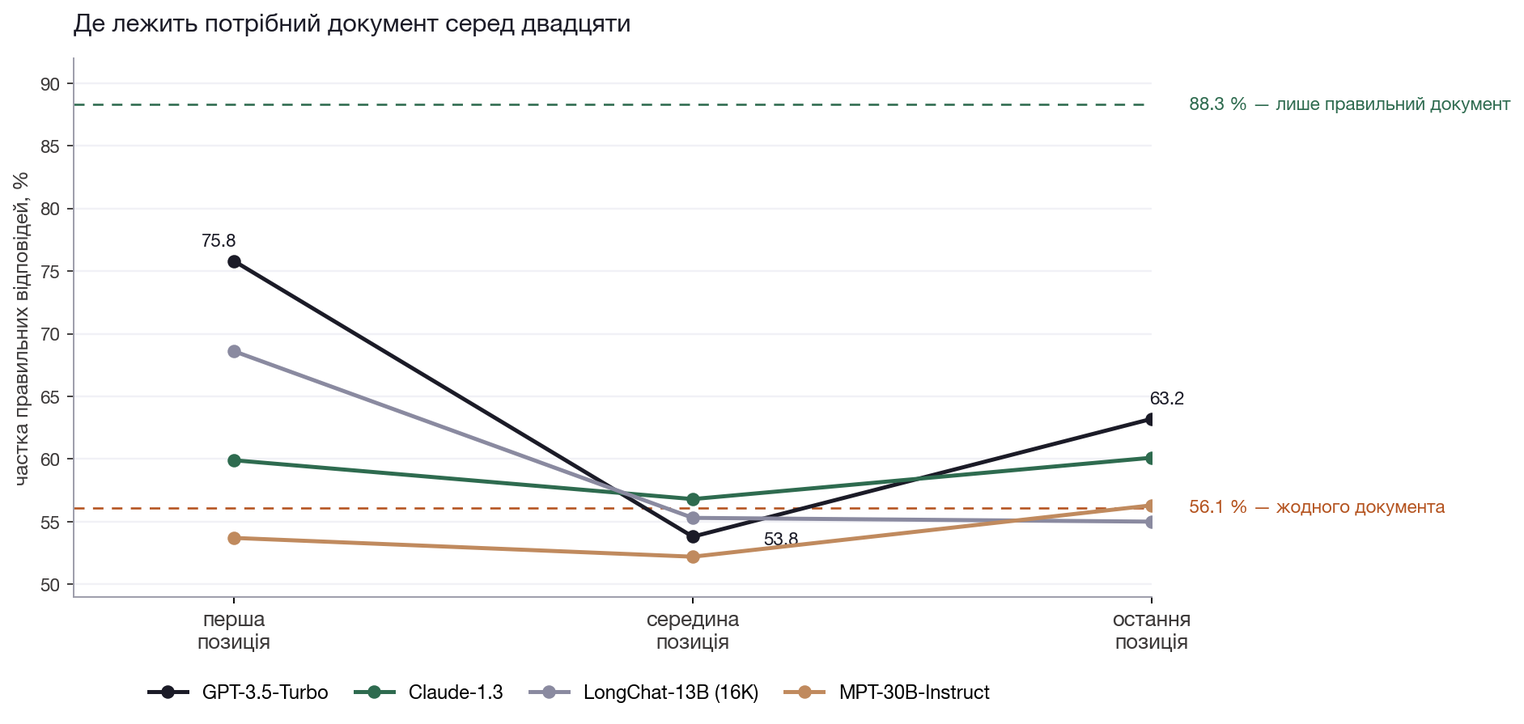
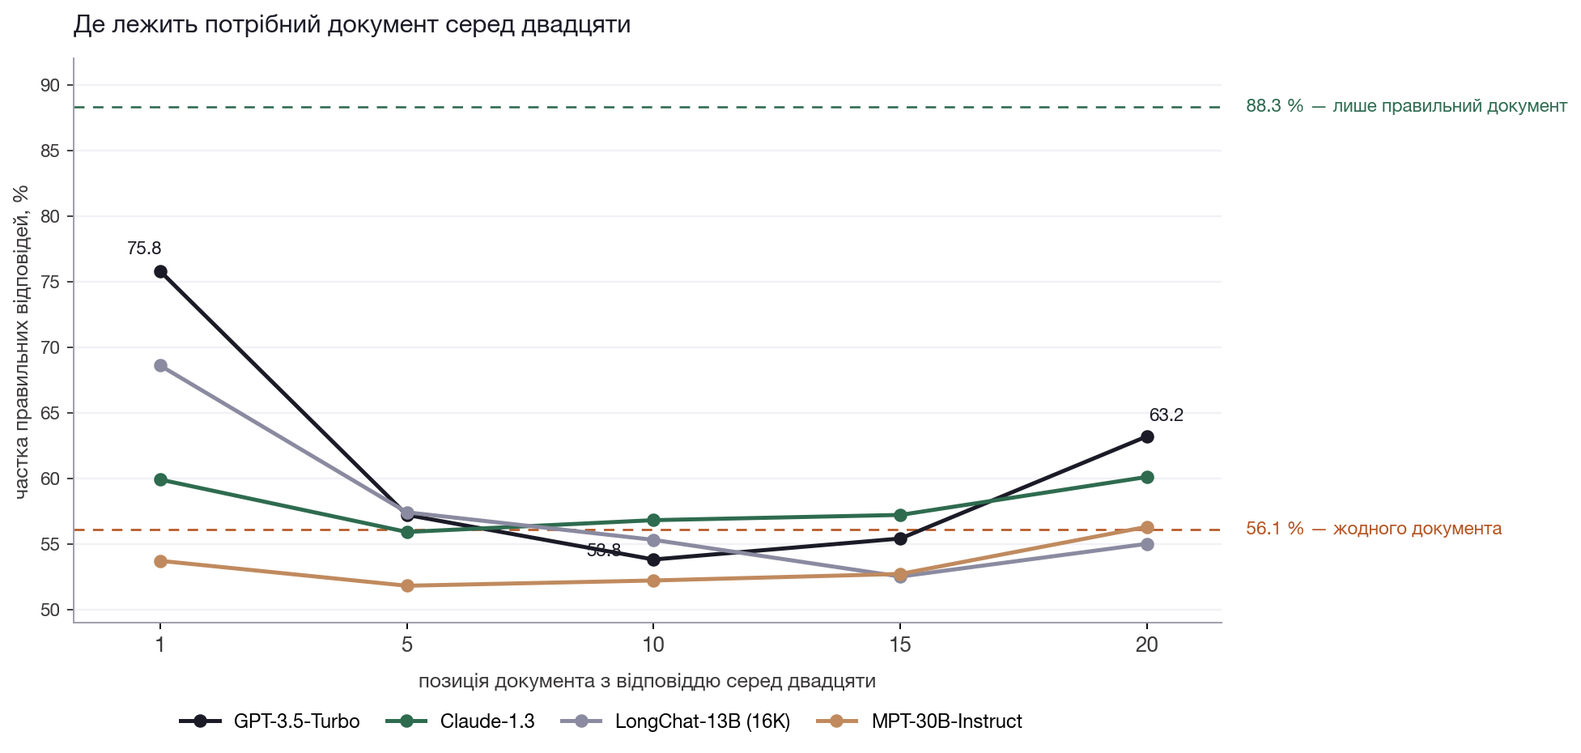
Третій прохід Л03 і Л04: візуал замість таблиць чисел
Крива позиції — усі пʼять виміряних позицій (1, 5, 10, 15, 20) на кожну з
чотирьох моделей за таблицею додатка «20 Total Retrieved Documents».
Тепер U-подібність видно не лише в GPT-3.5: у LongChat провал триває до
пʼятнадцятої позиції, а Claude майже рівний — і це різні інженерні висновки.

Дві нові власні схеми: приріст технік у відсоткових пунктах разом з умовами
(найдовша смуга — розкид від форматування, а не техніка) і ланцюг EchoLeak
від листа до виходу на «довірений» домен.

SamplingLab стоїть на двох сторінках, і підзаголовок «розподіл той самий,
що в таблиці вище» на лекції 01 вказував на чужу таблицю, а примітка про
округлення .39/.36/.25 не мала до чого відсилати. Додано пропс context:
на лекції 01 текст свій, примітки немає.

Таблиця «Що змінювали» розведена по джерелах (RULER проти Context Rot) —
раніше три роботи стояли під однією шапкою. Бенчмарки GSM8K, MAWPS,
StrategyQA, CSQA, SVAMP, AQuA і NaturalQuestions-Open отримали по рядку
пояснення, ASR — формулу, картки механізмів більше не переказують розділи.

Підпис титульної схеми Л04 звірено з самим рисунком: «Possible context to
give model», стрілка «Curation», цикл Tool call → Tool result → Message
history і ножиці як межа вікна.

Claude-Session: https://claude.ai/code/session_01BB2vWPDECbuHqp6thRky4G

diff --git a/.vitepress/theme/components/SamplingLab.vue b/.vitepress/theme/components/SamplingLab.vue
@@ -5,6 +5,15 @@
  */
 import { ref, computed } from 'vue'
 
+/**
+ * Віджет стоїть на двох сторінках. У лекції 03 таблиця з цим самим розподілом
+ * надрукована прямо над ним, у лекції 01 — ні, тому підзаголовок «той самий,
+ * що в таблиці вище» там указував на чужу таблицю, а примітка про округлення
+ * .39/.36/.25 не мала до чого відсилати.
+ */
+const props = withDefaults(defineProps<{ context?: 'table' | 'standalone' }>(),
+  { context: 'table' })
+
 const BASE = [
   { tok: 'cute', p: 0.34 },
   { tok: 'on', p: 0.32 },
@@ -104,7 +113,13 @@ function preset(t: number, k: number, p: number) {
       <div>
         <div class="sl__title">Один крок генерації, чотири рішення</div>
         <div class="sl__sub">
-          Розподіл — той самий, що в таблиці вище. Крутіть ручки й дивіться, хто лишається в пулі.
+          <template v-if="props.context === 'table'">
+            Розподіл — той самий, що в таблиці вище. Крутіть ручки й дивіться, хто лишається в пулі.
+          </template>
+          <template v-else>
+            Розподіл із п'яти токенів, який докладно розбирається в лекції про навчання моделі.
+            Крутіть ручки й дивіться, хто лишається в пулі.
+          </template>
         </div>
       </div>
       <button class="sl__reset" @click="reset">Скинути</button>
@@ -169,7 +184,7 @@ function preset(t: number, k: number, p: number) {
       </p>
     </div>
 
-    <p class="sl__fine">
+    <p v-if="props.context === 'table'" class="sl__fine">
       Ймовірності в таблиці лекції вже округлені, тому перерахунок від них дає, наприклад,
       <code>.39 / .37 / .24</code>, а в підручнику надруковано <code>.39 / .36 / .25</code> —
       там нормували неокруглені значення. Розбіжність у сотих є наслідком округлення, а не помилкою.

diff --git a/lectures/04.md b/lectures/04.md
@@ -10,7 +10,7 @@ outline: [2, 2]
 
 <Figure src="/figs/ext/sanity-0e84ae-faa261102e46c7f090a2402a49000ffae18c5dd6.png" alt="Промпт-інженерія проти context engineering: що потрапляє у вікно моделі">
 
-Схема з [Effective context engineering for AI agents](https://www.anthropic.com/engineering/effective-context-engineering-for-ai-agents), Anthropic, 2025. Ліва панель — **prompt engineering**: те, що ви пишете самі. Права — **context engineering**: усе, що опиняється у вікні на цьому кроці, разом із описами інструментів, історією діалогу, підвантаженими документами й результатами викликів. Перше є підмножиною другого.
+Схема з [Effective context engineering for AI agents](https://www.anthropic.com/engineering/effective-context-engineering-for-ai-agents), Anthropic, 2025. Ліва панель — «prompt engineering for single turn queries»: у вікні лише системний промпт і повідомлення користувача. Права — «context engineering for agents»: ліворуч у ній складено **Possible context to give model** (документи, інструменти, файли пам'яті, інструкції, доменні знання), і стрілка **Curation** веде звідти у **Context window** лише частину — дібране. Далі видно цикл: модель видає «Tool call», результат «Tool result» повертається в «Message history» і знову претендує на місце у вікні. Ножиці внизу обох рамок позначають межу вікна: усе, що не вмістилося, доводиться відрізати.
 
 </Figure>
 
@@ -191,6 +191,8 @@ print("теги-межі в запиті:", [t for t in ("<examples>", "<documen
 
 Ланцюг міркувань (*chain-of-thought*, CoT) просить модель виписати проміжні кроки перед відповіддю. Умови виміру: few-shot промпт із восьми екземплярів із розписаними міркуваннями, без донавчання, greedy-декодування.
 
+У колонці «задача» — назви наборів: **GSM8K** і **MAWPS** — шкільні текстові задачі з арифметикою, **StrategyQA** — питання, що вимагають кількох кроків міркування про світ, **CSQA** — здоровий глузд із вибором відповіді.
+
 | Задача, модель | Звичайний промпт | CoT |
 |---|---|---|
 | GSM8K, PaLM 540B | 17.9 % | 56.9 % |
@@ -213,7 +215,7 @@ $$\hat{a} \;=\; \arg\max_{a} \sum_{i=1}^{m} \mathbb{1}\!\left[a_i = a\right], \q
 | $(r_i, a_i)$ | ланцюжок і його відповідь | $T = 0.7$, top-k 40, PaLM 540B |
 | $\mathbb{1}[\cdot]$ | збіг фінальних відповідей | голосування більшістю |
 
-На GSM8K це дає 56.5 % проти 74.4 %, тобто плюс 17.9 пункту до CoT. На тій самій PaLM 540B приріст на SVAMP становить 7.6 пункту, на AQuA — 12.5 ([Wang та ін.](https://arxiv.org/abs/2203.11171), таблиця 2; числа 11.0 і 12.2, які часто цитують, належать іншій моделі — code-davinci-002). Крива виходить на плато на 20–40 шляхах, а платить за це система сорокакратним обсягом згенерованих токенів.
+На GSM8K це дає 56.5 % проти 74.4 %, тобто плюс 17.9 пункту до CoT. На тій самій PaLM 540B приріст на **SVAMP** (прості задачі з навмисно переставленими числами) становить 7.6 пункту, на **AQuA** (задачі зі вступних тестів, з варіантами відповіді) — 12.5 ([Wang та ін.](https://arxiv.org/abs/2203.11171), таблиця 2; числа 11.0 і 12.2, які часто цитують, належать іншій моделі — code-davinci-002). Крива виходить на плато на 20–40 шляхах, а платить за це система сорокакратним обсягом згенерованих токенів.
 
 ## Self-consistency у двадцяти рядках
 
@@ -308,7 +310,7 @@ print("перемогла:", votes.most_common(1)[0][0])
 | Reasoning | o3-mini, o4-mini | +2.9…+3.1 |
 | Reasoning | Gemini Flash 2.5 | −3.3 |
 
-Висновок авторів: для reasoning-моделей [CoT](https://arxiv.org/abs/2506.07142) «often results in only marginal, if any, gains in answer accuracy». Час відповіді зростає на 35–600 % для звичайних моделей. У non-reasoning моделей картина не однакова: у Claude Sonnet 3.5 росте і середнє, і частка питань, розв'язаних усі 25 разів поспіль; у Gemini Flash 2.0 середнє росте на 13.5 пункту, а та сама «усі 25 із 25» падає на 13.1. Тобто на одній моделі CoT піднімає середнє й водночас робить відповідь менш передбачуваною — і саме цей розмін варто перевіряти на своїй моделі, а не припускати. Явний CoT у промпті 2026 року лишається корисним передусім для моделей без вбудованого міркування.
+Висновок авторів [звіту 2025 року](https://arxiv.org/abs/2506.07142): для reasoning-моделей CoT «often results in only marginal, if any, gains in answer accuracy». Час відповіді зростає на 35–600 % для звичайних моделей. У non-reasoning моделей картина не однакова: у Claude Sonnet 3.5 росте і середнє, і частка питань, розв'язаних усі 25 разів поспіль; у Gemini Flash 2.0 середнє росте на 13.5 пункту, а та сама «усі 25 із 25» падає на 13.1. Тобто на одній моделі CoT піднімає середнє й водночас робить відповідь менш передбачуваною — і саме цей розмін варто перевіряти на своїй моделі, а не припускати. Явний CoT у промпті 2026 року лишається корисним передусім для моделей без вбудованого міркування.
 
 ## Саме форматування рухає точність
 
@@ -328,6 +330,16 @@ print("перемогла:", votes.most_common(1)[0][0])
 Одна таблиця тримає весь блок: техніка, задача, приріст і умови, за яких його отримано. Без четвертої колонки перші три не переносяться на вашу систему.
 
 Приріст подано у **відсоткових пунктах** (в.п.): різниця двох часток, а не відносна зміна. Зростання точності з 17.9 % до 56.9 % — це +39.0 в.п., хоча у відносному вимірі це більш ніж утричі.
+
+
+<Figure src="/figs/own/l04-gains.png" alt="Приріст кожної техніки у відсоткових пунктах разом з умовами виміру">
+
+Приріст кожної техніки у відсоткових пунктах разом з умовами виміру
+
+</Figure>
+
+
+Стовпчик без четвертої колонки нічого не означає: найдовша смуга тут — не техніка, а **розкид** від форматування, тобто різниця між найкращим і найгіршим способом записати той самий промпт.
 
 | Техніка | Задача | Приріст | Умови |
 |---|---|---|---|
@@ -359,7 +371,7 @@ $$C_{\text{attn}} \;\propto\; n^2, \qquad n = n_{\text{sys}} + n_{\text{tools}} 
 
 ## Крива позиції має форму літери U
 
-Умови експерименту: 2 655 запитів із NaturalQuestions-Open, 20 документів по 100 токенів. Рівно один документ містить відповідь, решта — **дистрактори** (правдоподібні, але непотрібні тексти), і змінюється лише позиція потрібного. Таку перевірку називають **пошуком голки в копиці сіна** (*needle in a haystack*).
+Умови експерименту: 2 655 запитів із **NaturalQuestions-Open** — це реальні пошукові запити до Google з відповідями у вікіпедійних статтях; 20 документів по 100 токенів. Рівно один документ містить відповідь, решта — **дистрактори** (правдоподібні, але непотрібні тексти), і змінюється лише позиція потрібного. Таку перевірку називають **пошуком голки в копиці сіна** (*needle in a haystack*).
 
 | Модель | Перша | Середина | Остання |
 |---|---|---|---|
@@ -371,30 +383,29 @@ $$C_{\text{attn}} \;\propto\; n^2, \qquad n = n_{\text{sys}} + n_{\text{tools}} 
 
 <Figure src="/figs/own/l04-position.png" alt="Точність залежно від позиції потрібного документа серед двадцяти">
 
-Побудовано за даними [Lost in the Middle](https://arxiv.org/abs/2307.03172) (Liu та ін., TACL 2024), додаток «20 Total Retrieved Documents». Автори міряли п'ять позицій (1, 5, 10, 15, 20); тут показано три крайні — першу, середню й останню. Вісь X — позиція потрібного документа серед двадцяти, вісь Y — частка правильних відповідей. Пунктири — дві межі для GPT-3.5-Turbo з таблиці 1: скільки вона дає без жодного документа і скільки з одним лише правильним.
+Побудовано за таблицею додатка «20 Total Retrieved Documents» зі статті [Lost in the Middle](https://arxiv.org/abs/2307.03172) (Liu та ін., TACL 2024) — усі п'ять виміряних позицій. Вісь X — позиція потрібного документа серед двадцяти, вісь Y — частка правильних відповідей. Пунктири — дві межі для GPT-3.5-Turbo з таблиці 1: скільки вона дає без жодного документа і скільки з одним лише правильним.
 
 </Figure>
 
 
-Форма літери U читається прямо з лінії GPT-3.5-Turbo: 75.8 % на першій позиції, 53.8 % у середині, 63.2 % на останній. Розрив між найкращою і найгіршою позицією — 22 пункти. І головне: у середині модель дає **менше**, ніж узагалі без документів (56.1 %). Потрібний документ, покладений у середину вікна, гірший за його відсутність — він витрачає бюджет і не допомагає.
+Форма літери U читається прямо з лінії GPT-3.5-Turbo: 75.8 % на першій позиції, 57.2 % на п'ятій, 53.8 % на десятій, 55.4 % на п'ятнадцятій і 63.2 % на останній. Розрив між найкращою і найгіршою позицією — 22 пункти. І головне: у середині модель дає **менше**, ніж узагалі без документів (56.1 %). Потрібний документ, покладений у середину вікна, гірший за його відсутність — він витрачає бюджет і не допомагає.
 
 ## Заявлене вікно не дорівнює робочому
 
 Довжина вікна в специфікації є верхньою межею, а не робочим діапазоном. Звіт [Context Rot](https://www.trychroma.com/research/context-rot) (Hong, Troynikov, Huber, Chroma, липень 2025) на 18 моделях сімейств Claude, GPT, Gemini і Qwen формулює це так: моделі «do not use their context uniformly; instead, their performance grows increasingly unreliable as input length grows».
 
-| Що змінювали | Умови | Що сталося |
-|---|---|---|
-| Заявлені 32K і більше | 17 моделей | половина не тримає якість |
-| Кількість «голок» | GPT-4, від 1 до 10 | початок губиться вже від 25k |
-| Дистрактори | 0, 1 та 4 схожі хибні | навіть один знижує точність |
-| Структура тексту | зв'язний і перемішаний | перемішаний дає кращий результат |
-| Обсяг релевантного | 300 проти 113k токенів | коротший промпт кращий усюди |
+| Що змінювали | Умови | Що сталося | Звідки |
+|---|---|---|---|
+| Заявлене вікно | 17 моделей із 32K і більше | половина не тримає якість | [RULER](https://arxiv.org/abs/2404.06654) |
+| Дистрактори | 0, 1 та 4 схожі хибні | навіть один знижує точність | Context Rot |
+| Структура тексту | зв'язний і перемішаний | перемішаний дає кращий результат | Context Rot |
+| Обсяг релевантного | 300 проти 113k токенів | коротший промпт кращий усюди | Context Rot |
 
 Для інженера з цього випливає одне: порядок і обсяг контексту є параметром системи нарівні з температурою, і його треба міряти на своїх задачах.
 
 ## Чотири механізми роботи з контекстом
 
-Якщо вікно є бюджетом, потрібні механізми, які його витрачають свідомо. Перший рядок таблиці — це базова лінія, з якою порівнюють решту; саме чотири наступні й є механізмами. Жоден із них не безкоштовний, і вибір робиться за тим, що саме ви готові зламати.
+Якщо вікно є бюджетом, потрібні механізми, які його витрачають свідомо. Перший рядок — базова лінія, з якою порівнюють решту; чотири наступні й є механізмами, і кожен розібрано далі окремо. Жоден не безкоштовний: вибір робиться за тим, що саме ви готові зламати.
 
 <Cards :items="[{k: 'Усе наперед (базова лінія)', v: 'дає простоту й один прохід', extra: 'вікно, витрачене на зайве'}, {k: 'Підвантаження за потреби', v: 'токени, тримає покажчики', extra: 'більше кроків і затримка'}, {k: 'Компакція', v: 'тримає сесію в межах вікна', extra: 'губить деталі, сама коштує'}, {k: 'Нотатки назовні', v: 'переживає стирання вікна', extra: 'застарілі й отруєні записи'}, {k: 'Субагенти', v: 'ізолює контекст задачі', extra: 'власне вікно на кожного й повторна робота'}]" :head="['Механізм', 'Що економить', 'Що ламає']" accent="accent" :numbered="false" />
 
@@ -443,7 +454,17 @@ $$n_{\text{used}} \ge \rho \cdot n_{\max} \;\Rightarrow\; \text{compact}(\text{h
 
 ## EchoLeak як задокументований випадок
 
-Уразливість CVE-2025-32711 у Microsoft 365 Copilot показує весь ланцюг без єдиної дії жертви. Її знайшли й описали в [Aim Labs](https://www.aim.security/lp/aim-labs-echoleak-blogpost); Microsoft закрила її на своєму боці, тож дій від користувачів не вимагалося. Атакувальник надсилає звичайний лист із прихованим payload у markdown. Пошуковий рушій асистента підтягує цей лист у контекст при будь-якому наступному запиті користувача. Ін'єкція змушує модель зібрати приватні дані з контексту, а ексфільтрація йде через посилання на домени, які політика безпеки вже вважала довіреними.
+Уразливість CVE-2025-32711 у Microsoft 365 Copilot показує весь ланцюг без єдиної дії жертви.
+
+
+<Figure src="/figs/own/l04-echoleak.png" alt="Ланцюг EchoLeak: лист, індексація, інструкція з даних, збір, вихід на довірений домен">
+
+Ланцюг EchoLeak: лист, індексація, інструкція з даних, збір, вихід на довірений домен
+
+</Figure>
+
+
+Третій крок — те саме, про що йшлося абзацом вище: модель не розрізняє, звідки прийшов текст. П'ятий показує, чому список довірених доменів не є захистом: вихід ішов саме через домен, який політика вже дозволила. Її знайшли й описали в [Aim Labs](https://www.aim.security/lp/aim-labs-echoleak-blogpost); Microsoft закрила її на своєму боці, тож дій від користувачів не вимагалося. Атакувальник надсилає звичайний лист із прихованим payload у markdown. Пошуковий рушій асистента підтягує цей лист у контекст при будь-якому наступному запиті користувача. Ін'єкція змушує модель зібрати приватні дані з контексту, а ексфільтрація йде через посилання на домени, які політика безпеки вже вважала довіреними.
 
 | Параметр | Значення |
 |---|---|
@@ -457,7 +478,7 @@ $$n_{\text{used}} \ge \rho \cdot n_{\max} \;\Rightarrow\; \text{compact}(\text{h
 
 Роздільники, маркування даних та ієрархія інструкцій зміщують імовірності на користь довіреного джерела. Ефект кожного з них виміряний, і числа нижче — саме ці виміри.
 
-**ASR** (*attack success rate*) — частка успішних атак: скільки спроб із ста досягли мети. Що менше, то краще.
+**ASR** (*attack success rate*) — частка успішних атак: $ASR = \text{успішні атаки} / \text{усі спроби}$. Що менше, то краще; 50 % означає, що спрацьовує кожна друга спроба.
 
 | Механізм | Що виміряно | Число |
 |---|---|---|

diff --git a/lectures/01.md b/lectures/01.md
@@ -266,7 +266,7 @@ $$\mathbf{y} = \text{softmax}(\mathbf{u}/\tau)$$
 
 Температура не обрізає хвіст розподілу, а лише перешкальовує його. Обрізанням займаються top-k і top-p, він же nucleus sampling, запропонований Holtzman та ін. у 2020 році.
 
-<SamplingLab />
+<SamplingLab context="standalone" />
 
 ## Той самий промпт із різними параметрами
 
